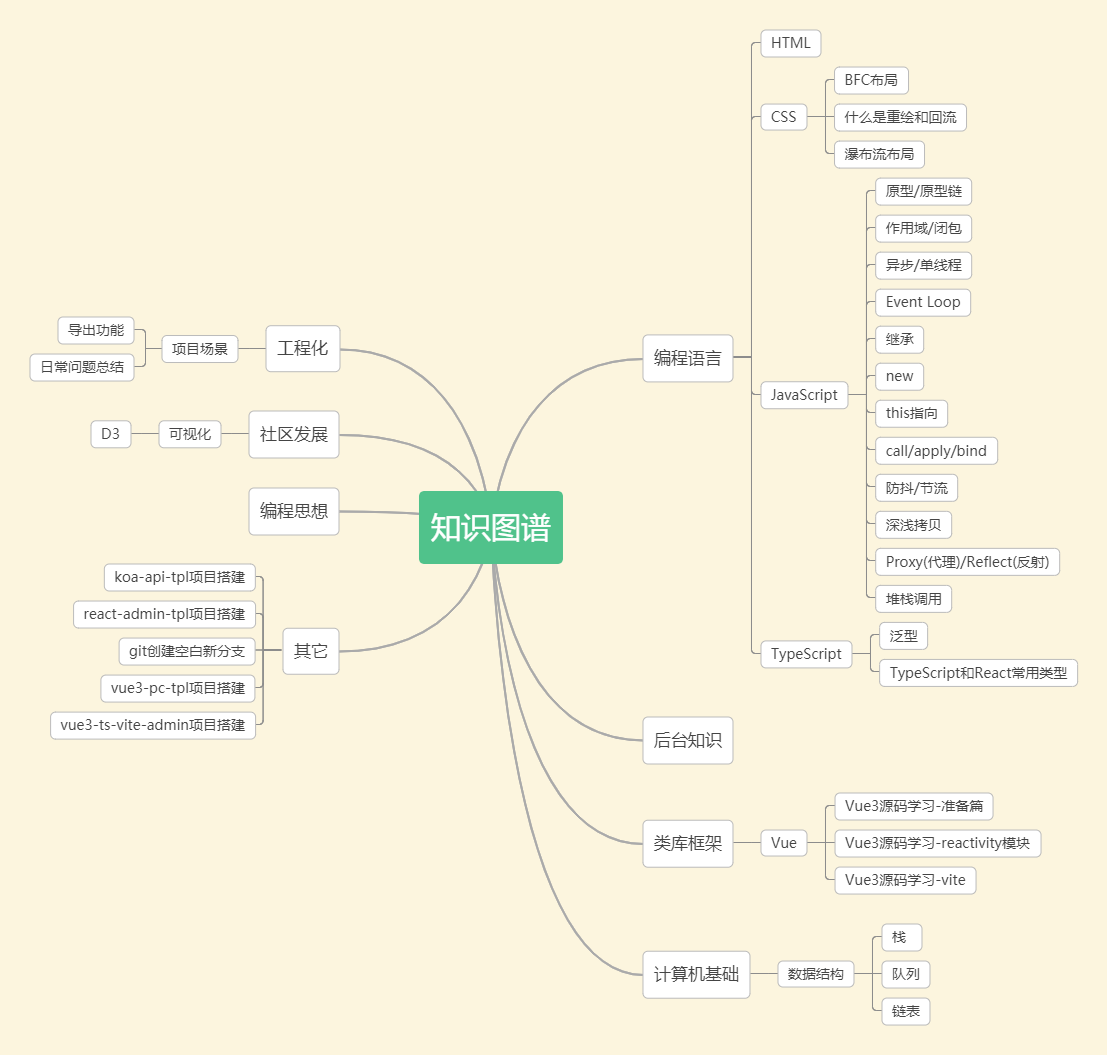
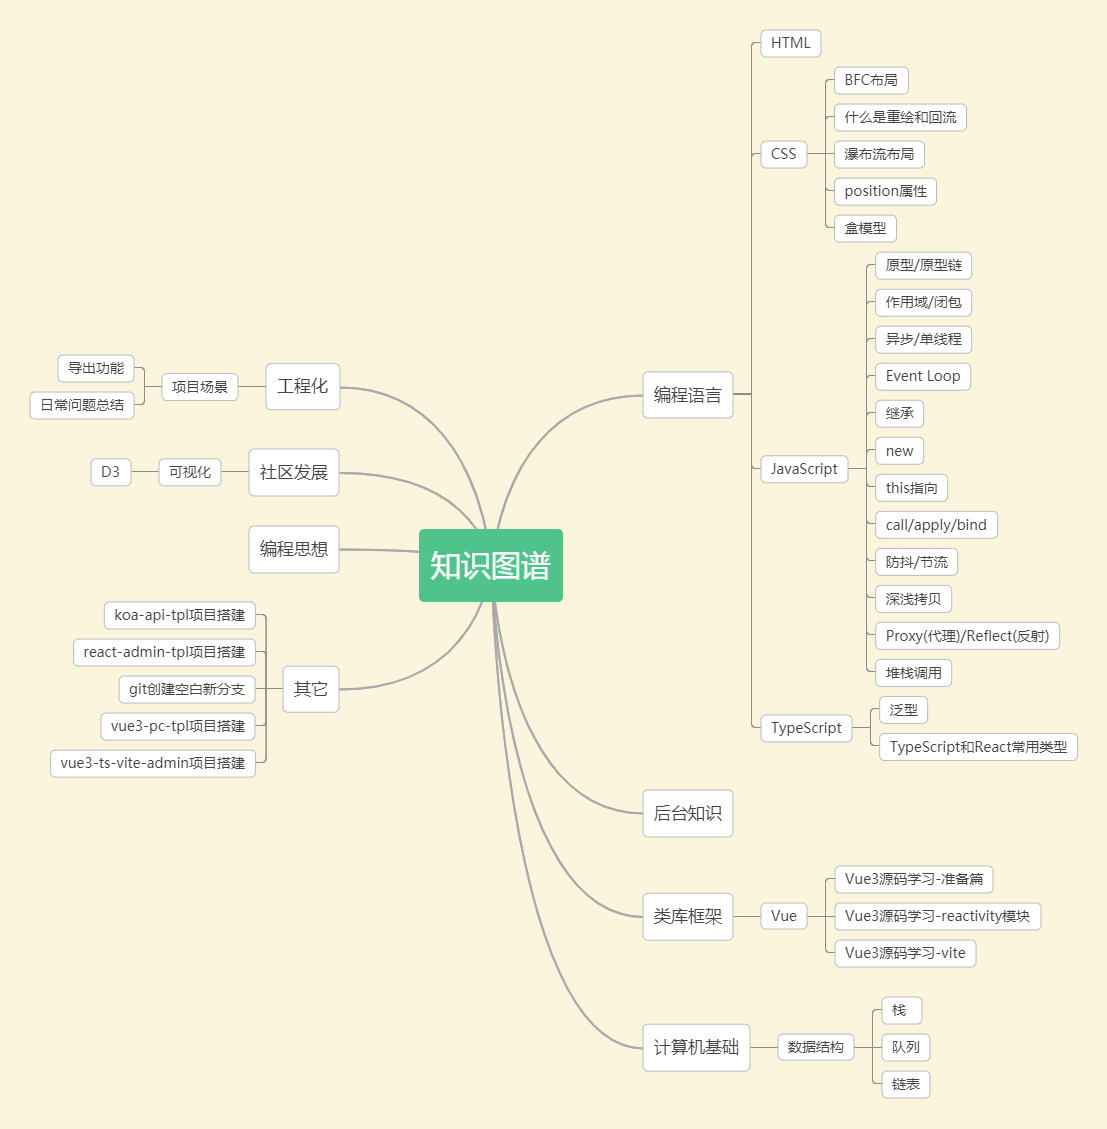
feat: 盒模型

diff --git a/Language/CSS/test.html b/Language/CSS/test.html
@@ -1,0 +1,18 @@
+<!DOCTYPE html>
+<html lang="en">
+<head>
+    <meta charset="UTF-8">
+    <meta name="viewport" content="width=device-width, initial-scale=1.0">
+    <title>Document</title>
+    <style>
+        .box {
+            width: 500px;
+            height: 300px;
+            border: 1px solid red;
+        }
+    </style>
+</head>
+<body>
+    <div class="box"></div>
+</body>
+</html>

diff --git a/Language/CSS/盒模型.md b/Language/CSS/盒模型.md
@@ -1,0 +1,37 @@
+## 概念
+
+当浏览器对文档进行布局时，渲染引擎将所有元素表现为一个个矩形的盒子，称为盒模型。
+
+![盒模型](./images/010.png)
+我们用chrome调试时看到的就是每个元素对应的盒模型示例图，盒模型从外到内包括margin-box(外边距),border-box(边框),padding-box(内边距)和content-box(实际内容)。
+
+## 标准盒模型和IE盒模型
+
+标准（W3C）盒模型和IE盒模型的区别是整个盒子的宽高决定方式的不同，可通过设置css属性box-sizing为content-box和border-box分别将盒子设置为标准盒模型和IE盒模型。
+
+标准盒模型：盒子大小 = content + border + padding + margin
+IE盒模型：盒子大小 = width（content + border + padding） + margin
+
+## 默认设置
+
+如果是定义了完整的doctype的标准文档类型，无论是哪种模型情况，最终都会触发标准模式，否则doctype协议缺失，会由浏览器自己决定，在IE浏览器中IE9以下（IE6.IE7.IE8）的版本触发怪异模式，其他浏览器中会默认为W3c标准模式。
+
+除此之外，我们还可以通过属性box-sizing来设置盒子模型的解析模式：
+
+- content-box： 默认值，border和padding不计算在width内，可看成W3c的标准模型，将采用标准模式解析计算
+- border-box：border和padding计算在width内，可看成IE的怪异盒模型，将采用怪异模式解析计算
+- inherit：规定应从父元素继承 box-sizing 属性的值
+
+*我使用较多的情况是将某个元素宽度控制在特定值时，设置box-sizing为border-box*
+
+## 盒模型边距重叠问题
+
+父子元素、兄弟元素，当有外边距时，会取其中一个边距的最大值，作为实际的边距。 空元素的有上下边距时，也会取其中更大的一个边距值，作为实际的边距，这就是边距重叠。
+
+对于行内元素 margin-top/margin-bottom 对于上下元素无效，而对于 margin-left/margin-right 有效。对于相邻的块级元素 margin-top 和 margin-bottom 两者叠加按照一定的规则：
+
+- 都是整数 margin 值取两者的最大值；
+- 都是负数 margin 值取最小值；
+- 两者正负相反，margin 值取两者之和。
+
+解决盒模型的边距问题，可以看下之前写的BFC

diff --git a/README.md b/README.md
@@ -19,6 +19,7 @@
 - [什么是重绘和回流](Language/CSS/什么是重绘和回流.md)
 - [瀑布流布局](Language/CSS/瀑布流布局.md)
 - [position属性](Language/CSS/position属性.md)
+- [盒模型](Language/CSS/盒模型.md)
 
 #### JavaScript
 
